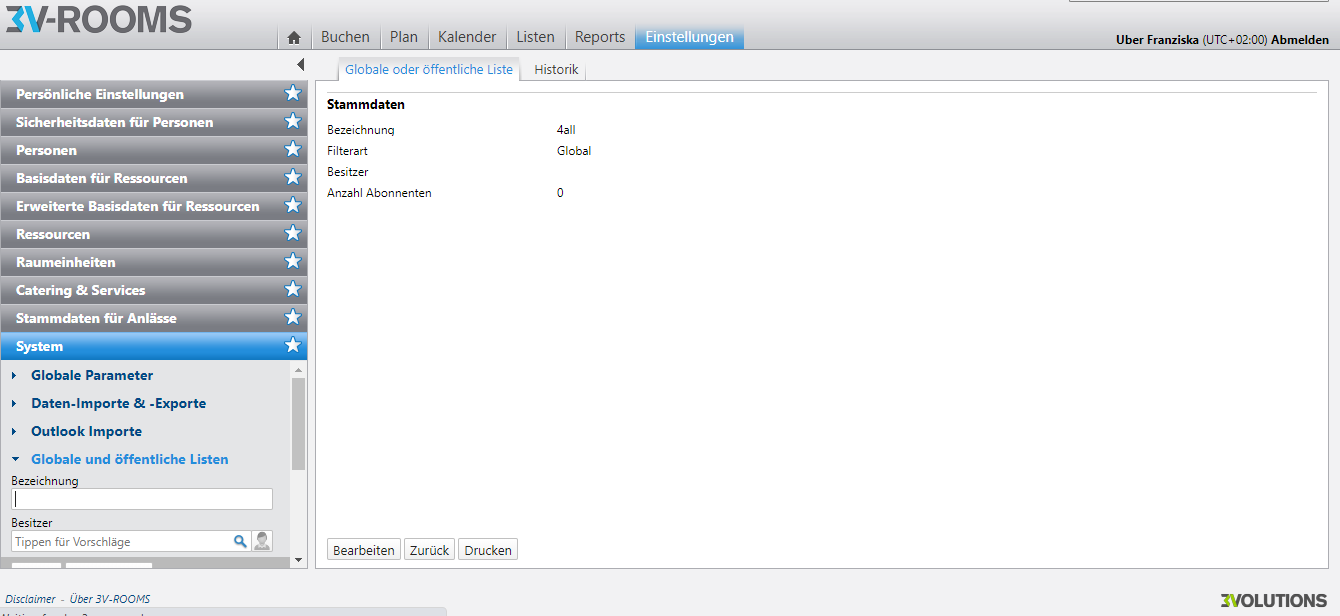
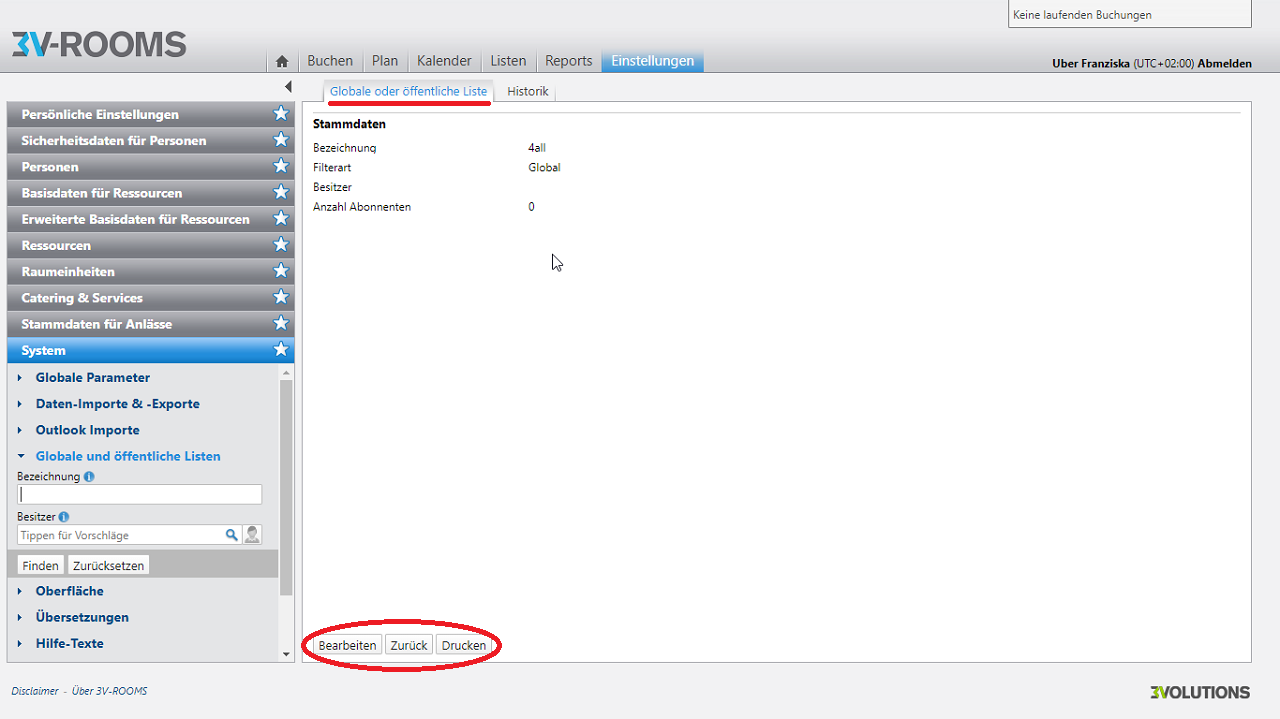
Screenshots im Kapitel System geändert, Inhalte abgeglichen mit UC und ergänzt

diff --git a/content/de/Einstellungen/System/GlobaleundöffentlicheListen/_index.md b/content/de/Einstellungen/System/GlobaleundöffentlicheListen/_index.md
@@ -8,20 +8,43 @@ description: >
 
 
 ---
-## Globale und öffentliche Listen bearbeiten
-Die Elemente aus der Liste bearbeiten Sie, indem Sie auf das Stift Icon klicken. Indem sich öffnenden Feld bearbeiten Sie die Stammdaten des Listen Elements (Abbildung ea): 
-* Bezeichnung 
-* Besitzer 
+## Ansicht globale und öffentliche Listen 
+Im linken Feld sehen Sie das Sidepanel mit den Filterfunktionen. 
+
+Im rechten Feld sehen Sie die Listenelemente. Diese können Sie bearbeiten oder mit Aktivierung der Checkbox löschen. 
 
 {{< imgproc Globale_bearbeiten_suchen Resize "1280x" >}}
 Abbildung e: Globale und öffentliche Listen bearbeiten und durchsuchen
 {{< /imgproc >}}
 
-{{< imgproc Globale_Daten_bearbeiten Resize "1280x" >}}
-Abbildung ea: Globale und öffentliche Listen: Stammdaten bearbeiten
-{{< /imgproc >}}
+Eine "public" Liste "global" machen oder eine "globale" Liste "public" machen.
+Entfernen von "globalen" Listen
 
-## Globale und öffenrliche Listen: Daten einsehen
+**Unterschied zwischen "globalen" und "öffentlichen" Listen**:
+
+* eine öffentliche Liste gehört einer Person. Diese Person ist der Owner und kann die Liste jederzeit verändern. Jeder Benutzer kann über das Abonnementen System selber entscheiden ober er eine "public" Liste nutzen will oder nicht.
+* eine globale Listen haben keine Owner. Diese können nur innerhalb von "Globale und Öffentliche Listen" bearbeitet werden. "Globale" Listen sind für alle Benutzer MUSS-Listen und erscheinen in den Dropdowns im Bereich der Listenansicht
+
+Listenart
+
+Es wird unterschieden zwischen folgenden Arten:
+öffentlich => Liste wurde durch einen Besitzer zur Publikation publiziert
+global => Liste wurde durch einen Dritten als public publiziert und in diesem Bereich der Ersteller entfernt 
+
+Liste wurde bereits erstellt und hat den Status "global" oder "public"
+
+**Weg um eine Liste zu erstellen**:
+
+* Listenansicht eine Liste nach Wunsch zusammenstellen (inkl. Filterkrierien) 
+* Liste unter beliebigem Namen abspeichern
+* Liste im Profil als "Public" publizieren 
+
+Mehr Information finden Sie hierzu im Kapitel [Listen](/listen/).
+
+### Globale und öffentliche Listen durchsuchen
+Über das linke Sidepanel durchsuchen Sie die globalen und öffentlichen Listen nach Bezeichnungen und Besitzern (Abbildung e).
+
+### Globale und öffenrliche Listen: Daten einsehen
 Fahren Sie mit dem Mauszeiger über das Listenelement und klicken Sie darauf. Sie sehen nun die eingetragenen Daten und können diese bei Bedarf auch bearbeiten. 
 
 {{< imgproc Globale_Daten_einsehen Resize "1280x" >}}
@@ -29,7 +52,18 @@ Abbildung e: Globale und öffentliche Listen: Daten einsehen
 {{< /imgproc >}}
 
 ## Globale und öffentliche Listen bearbeiten
-Über das linke Sidepanel durchsuchen Sie die globalen und öffentlichen Listen nach Bezeichnungen und Besitzern (Abbildung e).
+Die Elemente aus der Liste bearbeiten Sie, indem Sie auf das Stift Icon klicken. Indem sich öffnenden Feld bearbeiten Sie die Stammdaten des Listen Elements (Abbildung ea): 
+* Bezeichnung : Bezeichnung der Liste - wird durch den Ersteller festgelegt ([Listen](/listen/)). Hat einen Link auf Viewmode (Detail). Mehrsprachig, wird in der Sprache des angemeldeten Benutzers angezeigt
+* Besitzer: Eigentümer der Liste. Vorname und Nachname werden dargestellt. Bei globaler Liste ist der Eigentümer leer (Identifikationsmerkmal einer globalen Liste)
+
+**Hinweis zu Besitzer**: ist eine Person erfasst, handelt es sich um eine "Public" Liste der erfassten Person. Ist Keine Person erfasst, handelt es sich um eine "Globale" Liste.
+
+{{< imgproc Globale_Daten_bearbeiten Resize "1280x" >}}
+Abbildung ea: Globale und öffentliche Listen: Stammdaten bearbeiten
+{{< /imgproc >}}
+
+
+
 
 
 

diff --git a/content/de/Einstellungen/System/Oberfläche/_index.md b/content/de/Einstellungen/System/Oberfläche/_index.md
@@ -3,30 +3,54 @@ title: "Oberfläche"
 linkTitle: "Oberfläche"
 weight: 5
 description: >
-  Fügen Sie in den Einstellungen zur Oberfläche Themenlisten hinzu, bearbeiten bestehende oder löschen Elemente hieraus.   
+  Fügen Sie in den Einstellungen zur Oberfläche Themenlisten hinzu, bearbeiten bestehende oder löschen Elemente hieraus. Die Erfassung und Verwaltung von Kundenspezifischen Layout Anpassungen. Änderungen von CSS und Bilddateien.   
  
 
 
 ---
-## Oberfläche: Themenlisten bearbeiten und hinzufügen
-Die Elemente aus der Themenliste bearbeiten Sie, indem Sie auf das Stift Icon klicken. Indem sich öffnenden Feld bearbeiten Sie die Stammdaten des Listen Elements (Abbildung fa):  
+## Ansicht Oberfläche
+Im linken Bereich sehen Sie das Sidepanel mit den Filterfunktionen. 
+Im rechten Feld sehen Sie die Themenliste. Sind keine Themen gespeichert ist die Liste leer. (Abbildung f)
+Sie können Themen aus der Liste löschen, indem Sie die Checkbox neben dem Listenelement aktivieren und auf den Button "Entfernen" klicken. 
 
 {{< imgproc Oberfläche_bearbeiten Resize "1280x" >}}
-Abbildung f: Thenenlisten auf der Oberfläche bearbeiten und durchsuchen
+Abbildung f: Themenlisten auf der Oberfläche bearbeiten und durchsuchen
 {{< /imgproc >}}
+
+**Hinweis zum Löschen**:
+* Mehrfachselektionen möglich
+* Klick auf Löschen
+* Warnhinweis
+* Bestätigungsmeldung im Actionpanel (inkl. Anzahl der gelöschten Einträge) ODER Fehlermeldung im Actionpanel
+
+### Oberfläche durchsuchen
+Über das linke Sidepanel durchsuchen Sie die Themenlisten nach dem "File Pfad" (Abbildung f).
+
+## Oberfläche: Themenlisten bearbeiten und hinzufügen
+Die Elemente aus der Themenliste bearbeiten Sie, indem Sie auf das Stift Icon klicken. Indem sich öffnenden Feld bearbeiten Sie die Stammdaten des Listen Elements (Abbildung fa). 
+
+Fügen Sie neue Dateien hinzu, indem Sie auf den Button "Hinzufügen" klicken. In dem sich öffnendem Feld bearbeiten Sie ebenfalls die Stammdaten. 
+
 
 ### Oberfläche Stammdaten bearbeiten
 Folgende Daten bearbeiten Sie in den Stammdaten: 
 
 | Feld         | Funktion         | 
 | ------------- |-------------  | 
-| File Pfad    |  File Pfad eintragen | 
-| Datei/Verzeichnis-Browser    | Wählen Sie eine Datei mit maximal 5MB aus    |
+| File Pfad    |  File Pfad eintragen. Exakter Ablagepfad der zu übersteuernden CSS oder Bilddatei. Pfad ab (nach)  "Content" erfassen. Ohne Slash (/) starten. Gross-Kleinschreibung irrelevant | 
+| Datei/Verzeichnis-Browser    | Wählen Sie eine Datei mit maximal 5MB aus. File Daten. Über Browse Button wird die zu ersetzende Datei selektiert. Über Upload Button wird die Datei auf den Server geladen. Der Upload ist begrenzt. Begrenzung wird global festgelegt. Der Upload wird visualsiert. Die Upload Datei wird nicht überprüft ob es sich um eine gültige Datei handelt. |
+
+Unterstützte Formate: 
+
+* CSS
+* HTML
+* JS
+* JPG, JPEG, PNG, GIF
+* ZIP (beinhaltet alle Themenfiles)
 
 {{< imgproc Oberfläche_Stammdaten Resize "1280x" >}}
 Abbildung fa: Thenenlisten auf der Oberfläche bearbeiten und durchsuchen
 {{< /imgproc >}}
 
-## Oberfläche durchsuchen
-Über das linke Sidepanel durchsuchen Sie die Themenlisten nach dem "File Pfad" (Abbildung f)
+
 

diff --git a/content/de/Einstellungen/System/Ereignisanzeige/_index.md b/content/de/Einstellungen/System/Ereignisanzeige/_index.md
@@ -8,25 +8,34 @@ description: >
 
 
 ---
-## Ereignisanzeige Daten einsehen 
+## Ereignisanzeige Ansicht
+Im linken Sidepanel sehen Sie die Filterfunktionen. Im rechten Feld sehen Sie die Ereignisliste. Elemente in der Ereignisliste können Sie löschen oder ihre Daten einsehen. 
+
+{{< imgproc Ereignisanzeige_durchsuchen Resize "1280x" >}}
+Abbildung E: Ereignisliste durchsuchen
+{{< /imgproc >}}
+
+Sie löschen ein Element über die Aktivierung der Checkbox und den untenstehenden Button "Entfernen". Die Liste aktualisiert sich automatisch.
+
+### Ereignisanzeige durchsuchen
+Im linken Sidepanel finden Sie eine Suchfunktion. Hier durchsuchen Sie nach folgenden Kriterien die Ereignisanzeige (Abbildung E): 
+
+
+| Feld         | Funktion         | 
+| ------------- |-------------  | 
+| Quelle         | sucht über einen bestimmten Bereich - z.B. nur den ROOMS Service | 
+| Ereignistyp   | Verfügbare Werte: Critical => Fehler auf übergeordneter Ebene, zB konnten die einzelnen Prozesse des WindowsServices gar nicht angestossen werden. Error => Fehler. Information => Wie der Name sagt, zB Export gestartet oder Export erfolgreich. Warning => Fehler ohne Auswirkungen oder „verdächtiges“ Ereignis, zB konnte bei der BackSync ein Exchange-Appointment nicht gefunden werden (könnte sein, dass es noch gar nicht auf dem Server ist, muss also kein Fehler sein) oder eine Person hat mehrere zugeteilte OEs (ist zwar ein Fehler, wir können die Ausführung aber fortsetzen). Verbose => Hier kommen zT auch Dev-Informationen wie zB „DataContext initialisiert“, die fürs Debugging hilfreich sein können. Jeder Typ schliesst die übergeordneten immer ein, dh bei Verbose kommt ALLES. Mehrfachselektion erlaubt     | 
+| Zeitstempel  | Standardwert: nicht selektiert => alle werden angezeigt. Standardwert bei Selektion: der aktuelle Tage   | 
+| Applikationskontext    |  sucht in einer bestimmten Code Basis    | 
+| Meldungen   | schränkt sie Suche auf einen bestimmten Fehlertext ein     | 
+| Benutzername   | sucht in einer bestimmten Benutzerdomäne     | 
+| Servername   | sucht über einen bestimmten Server     | 
+
+### Ereignisanzeige Daten einsehen 
 Indem Sie auf den Namen des Ereignisses in der Liste klicken, erscheint ein neuen Feld. In diesem sehen Sie die eingetragenen Logging Stammdaten des Ereignisses. Diese können Sie teilweise bearbeiten oder drucken (Abbildung Ea).
 
 {{< imgproc Ereignisanzeige_Daten_einsehen Resize "1280x" >}}
 Abbildung Ea: Daten des angezeigten Ereignis einsehen
-{{< /imgproc >}}
-
-## Ereignisanzeige durchsuchen
-Im linken Sidepanel finden Sie eine Suchfunktion. Hier durchsuchen Sie nach folgenden Kriterien die Ereignisanzeige (Abbildung E): 
-* Quelle
-* Ereignistyp 
-* Zeitstempel
-* Applikationskontext 
-* Meldungen
-* Benutzername
-* Servername
-
-{{< imgproc Ereignisanzeige_durchsuchen Resize "1280x" >}}
-Abbildung E: Ereignisliste durchsuchen
 {{< /imgproc >}}
 
 

diff --git a/content/de/Einstellungen/System/Übersetzungen/_index.md b/content/de/Einstellungen/System/Übersetzungen/_index.md
@@ -3,22 +3,29 @@ title: "Übersetzungen"
 linkTitle: "Übersetzungen"
 weight: 6
 description: >
-  Im Bereich der Übersetzungen finden Sie alle eingetragenen Übersetzungen und Sprachen, welche in Rooms verwendet werden. Die Übersetzungen werden Ihnen in der Übersetzungsliste angezeigt. 
+  Im Bereich der Übersetzungen finden Sie alle eingetragenen Übersetzungen und Sprachen, welche in Rooms verwendet werden. Die Übersetzungen werden Ihnen in der Übersetzungsliste angezeigt. Die Standard-Textkonserven können mit Custom Text geändert und anderssprachige Texte können übersetzt werden.
  
 
 
 ---
-## Übersetzungen durchsuchen
-Im linken Sidepanel finden Sie eine Suchfunktion, über welche Sie die Übersetzungen durchsuchen können. 
+## Übersetzungen allgemein
+Im linken Feld sehen Sie das Sidepanel mit den Filterfunktionen. Hier können Sie nach Übersetzungen suchen.
 
-* Zustand 
-* Sprache 
-* Schlüssel
-* Text 
-* Originaltext 
+Im rechten Feld sehen Sie die Übersetzungsliste. Sie können diese direkt im Feld bearbeiten und über den Button "Speichern" speichern. Die Liste aktualisiert sich automatisch. 
 
 {{< imgproc Übersetzungsliste_durchsuchen Resize "1280x" >}}
 Abbildung N: Übersetzungsliste durchsuchen
 {{< /imgproc >}}
+
+## Übersetzungen durchsuchen
+Im linken Sidepanel finden Sie eine Suchfunktion, über welche Sie die Übersetzungen durchsuchen können. 
+
+* **Zustand**: hat die Werte: alle => zeigt alle Records, Originalzustand => sucht nach einem Record, welcher sich noch im Originalzustand (Produktstandard) befindet, modifiziert (aktuell) => sucht nach einem Record, welcher durch den Kunden modifiziert wurde,modifiziert (veraltet) => sucht nach einem Record, welcher durch den Kunden modifiziert wurde, sich aber Zwischenzeitlich der Originaltext (Produktstandard) geändert hat. 
+* **Sprache**: zeigt alle Sprachen, welche bei diesem Mandanten aktiviert worden sind
+* **Schlüssel**: Suche nach interner Feldbezeichnung
+* **Text**: suche nach Übersetzungswert
+* **Originaltext**: suche nach einem Originaltext (Produktstandard)
+
+
 
 

diff --git a/content/de/Einstellungen/System/Hilfe-Texte/_index.md b/content/de/Einstellungen/System/Hilfe-Texte/_index.md
@@ -8,6 +8,29 @@ description: >
 
 
 ---
+## Hilfetexte Ansicht
+Im linken Sidepanel finden Sie den Button "Hilfetexte aktivieren" oder "Hilfetexte deaktivieren", wenn diese bereits aktiv sind. 
 
+{{< imgproc Hilfetexte_Start Resize "1280x" >}}
+Abbildung h: Hilfetexte aktivieren
+{{< /imgproc >}}
 
+Editmodus aktivieren
+
+* Klick auf Button
+* Button wechselt die Beschriftung auf "Editmodus deaktivieren"
+* Edit Modus ist aktiv
+
+### Ansicht der Hilfetexte in Rooms 
+Überall in der Applikation wird im Sidepanel, Inhaltsbereich und View Mode vor einem Label (Beschriftungsfeld) ein Hilfe Icon eingeblendet. Wo ein Hilfetext in der Sprache des angemeldeten Benutzers hinterlegt wurde, wird das Hilfe Icon eingeblendet.
+
+Klicken Sie auf das Icon öffnet sich ein modales Popup "Feldbezogene Hilfe". Pro aktivierte Sprache wird ein mehrzeiliges Eingabefeld angezeigt - keine Pflichtfelder. Klicken Sie auf Speichern und die Hilfetexte werden gespeichert. Schließen Sie anschließend das Popup.
+
+{{< imgproc Hilfe_Icon Resize "1280x" >}}
+Abbildung ha: Hilfe Icon in Rooms
+{{< /imgproc >}}
+
+{{< imgproc Hilfetexte_popup Resize "1280x" >}}
+Abbildung hb: Hilfetext Popup 
+{{< /imgproc >}}
 

diff --git a/content/de/Einstellungen/System/About/_index.md b/content/de/Einstellungen/System/About/_index.md
@@ -8,8 +8,13 @@ description: >
 
 
 ---
+## Allgemeines zur About Seite
+Die About Site gibt Übersicht über Lizenzierung und System Informationen. Ausserdem erlaubt diese die Aktivierung/Deaktivierung der Services.
+
 {{< imgproc About_allgemein Resize "1280x" >}}
 Abbildung B: Allgemeine Informationen einsehen 
 {{< /imgproc >}}
+
+
 
 
